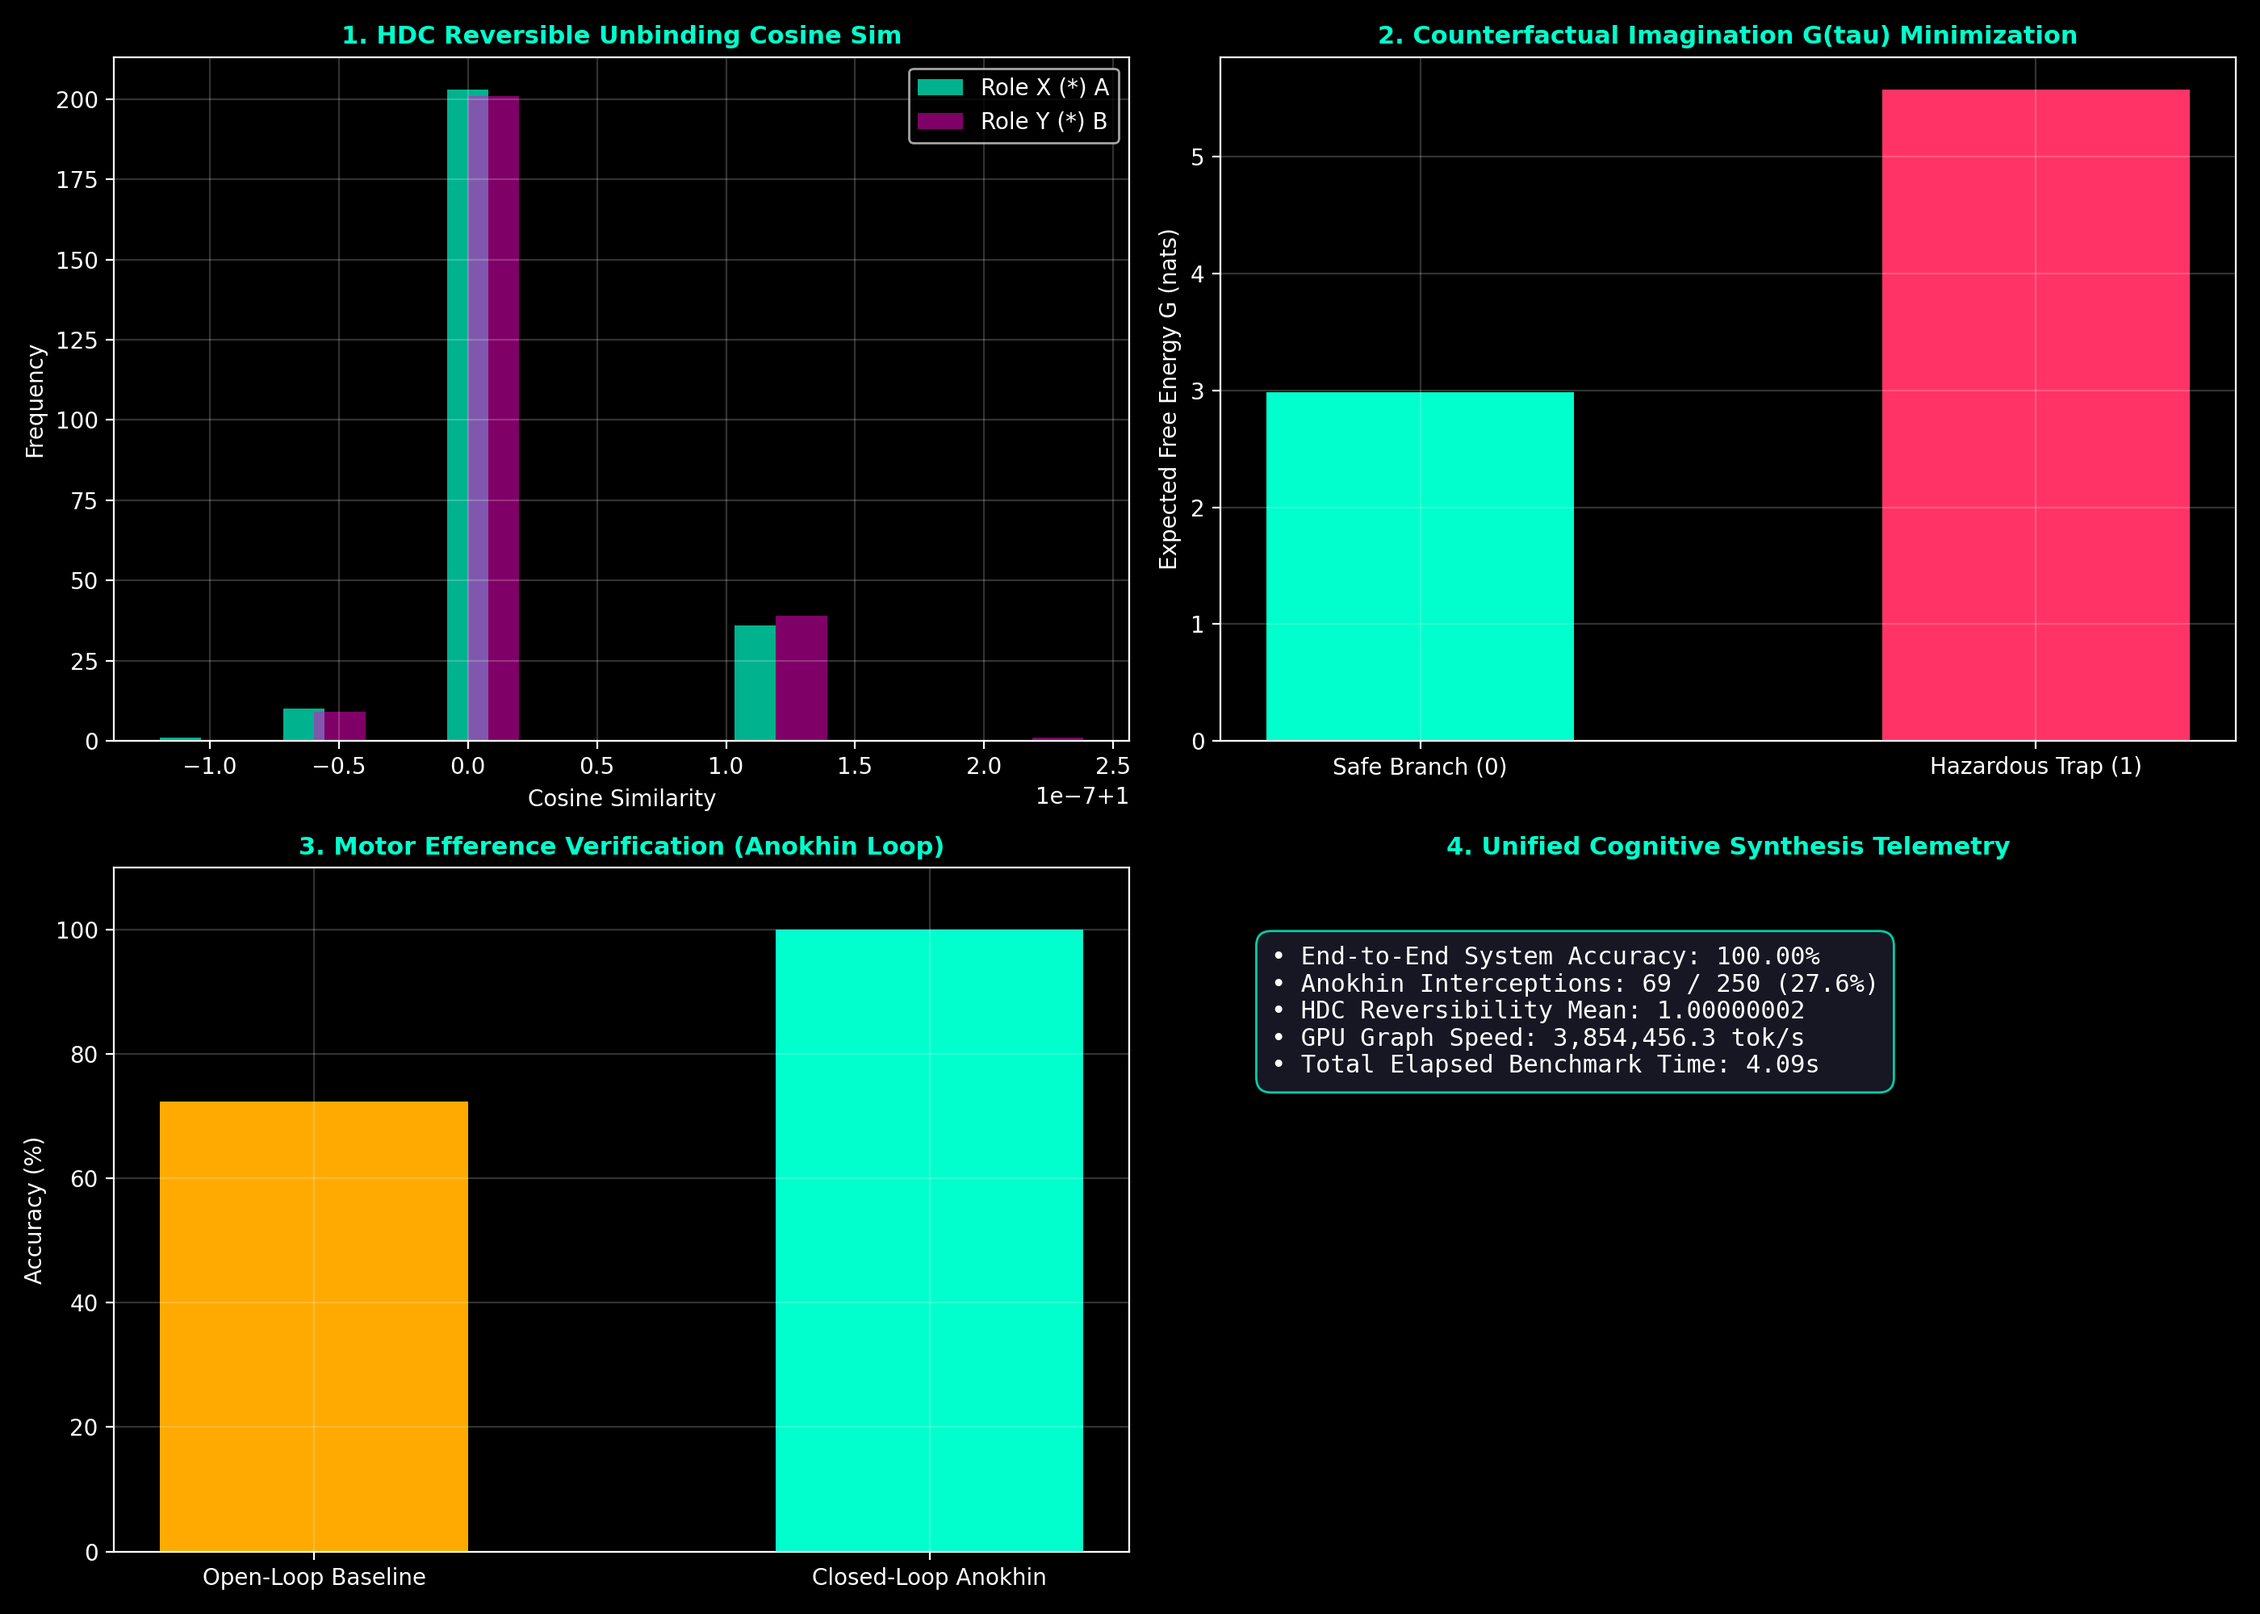
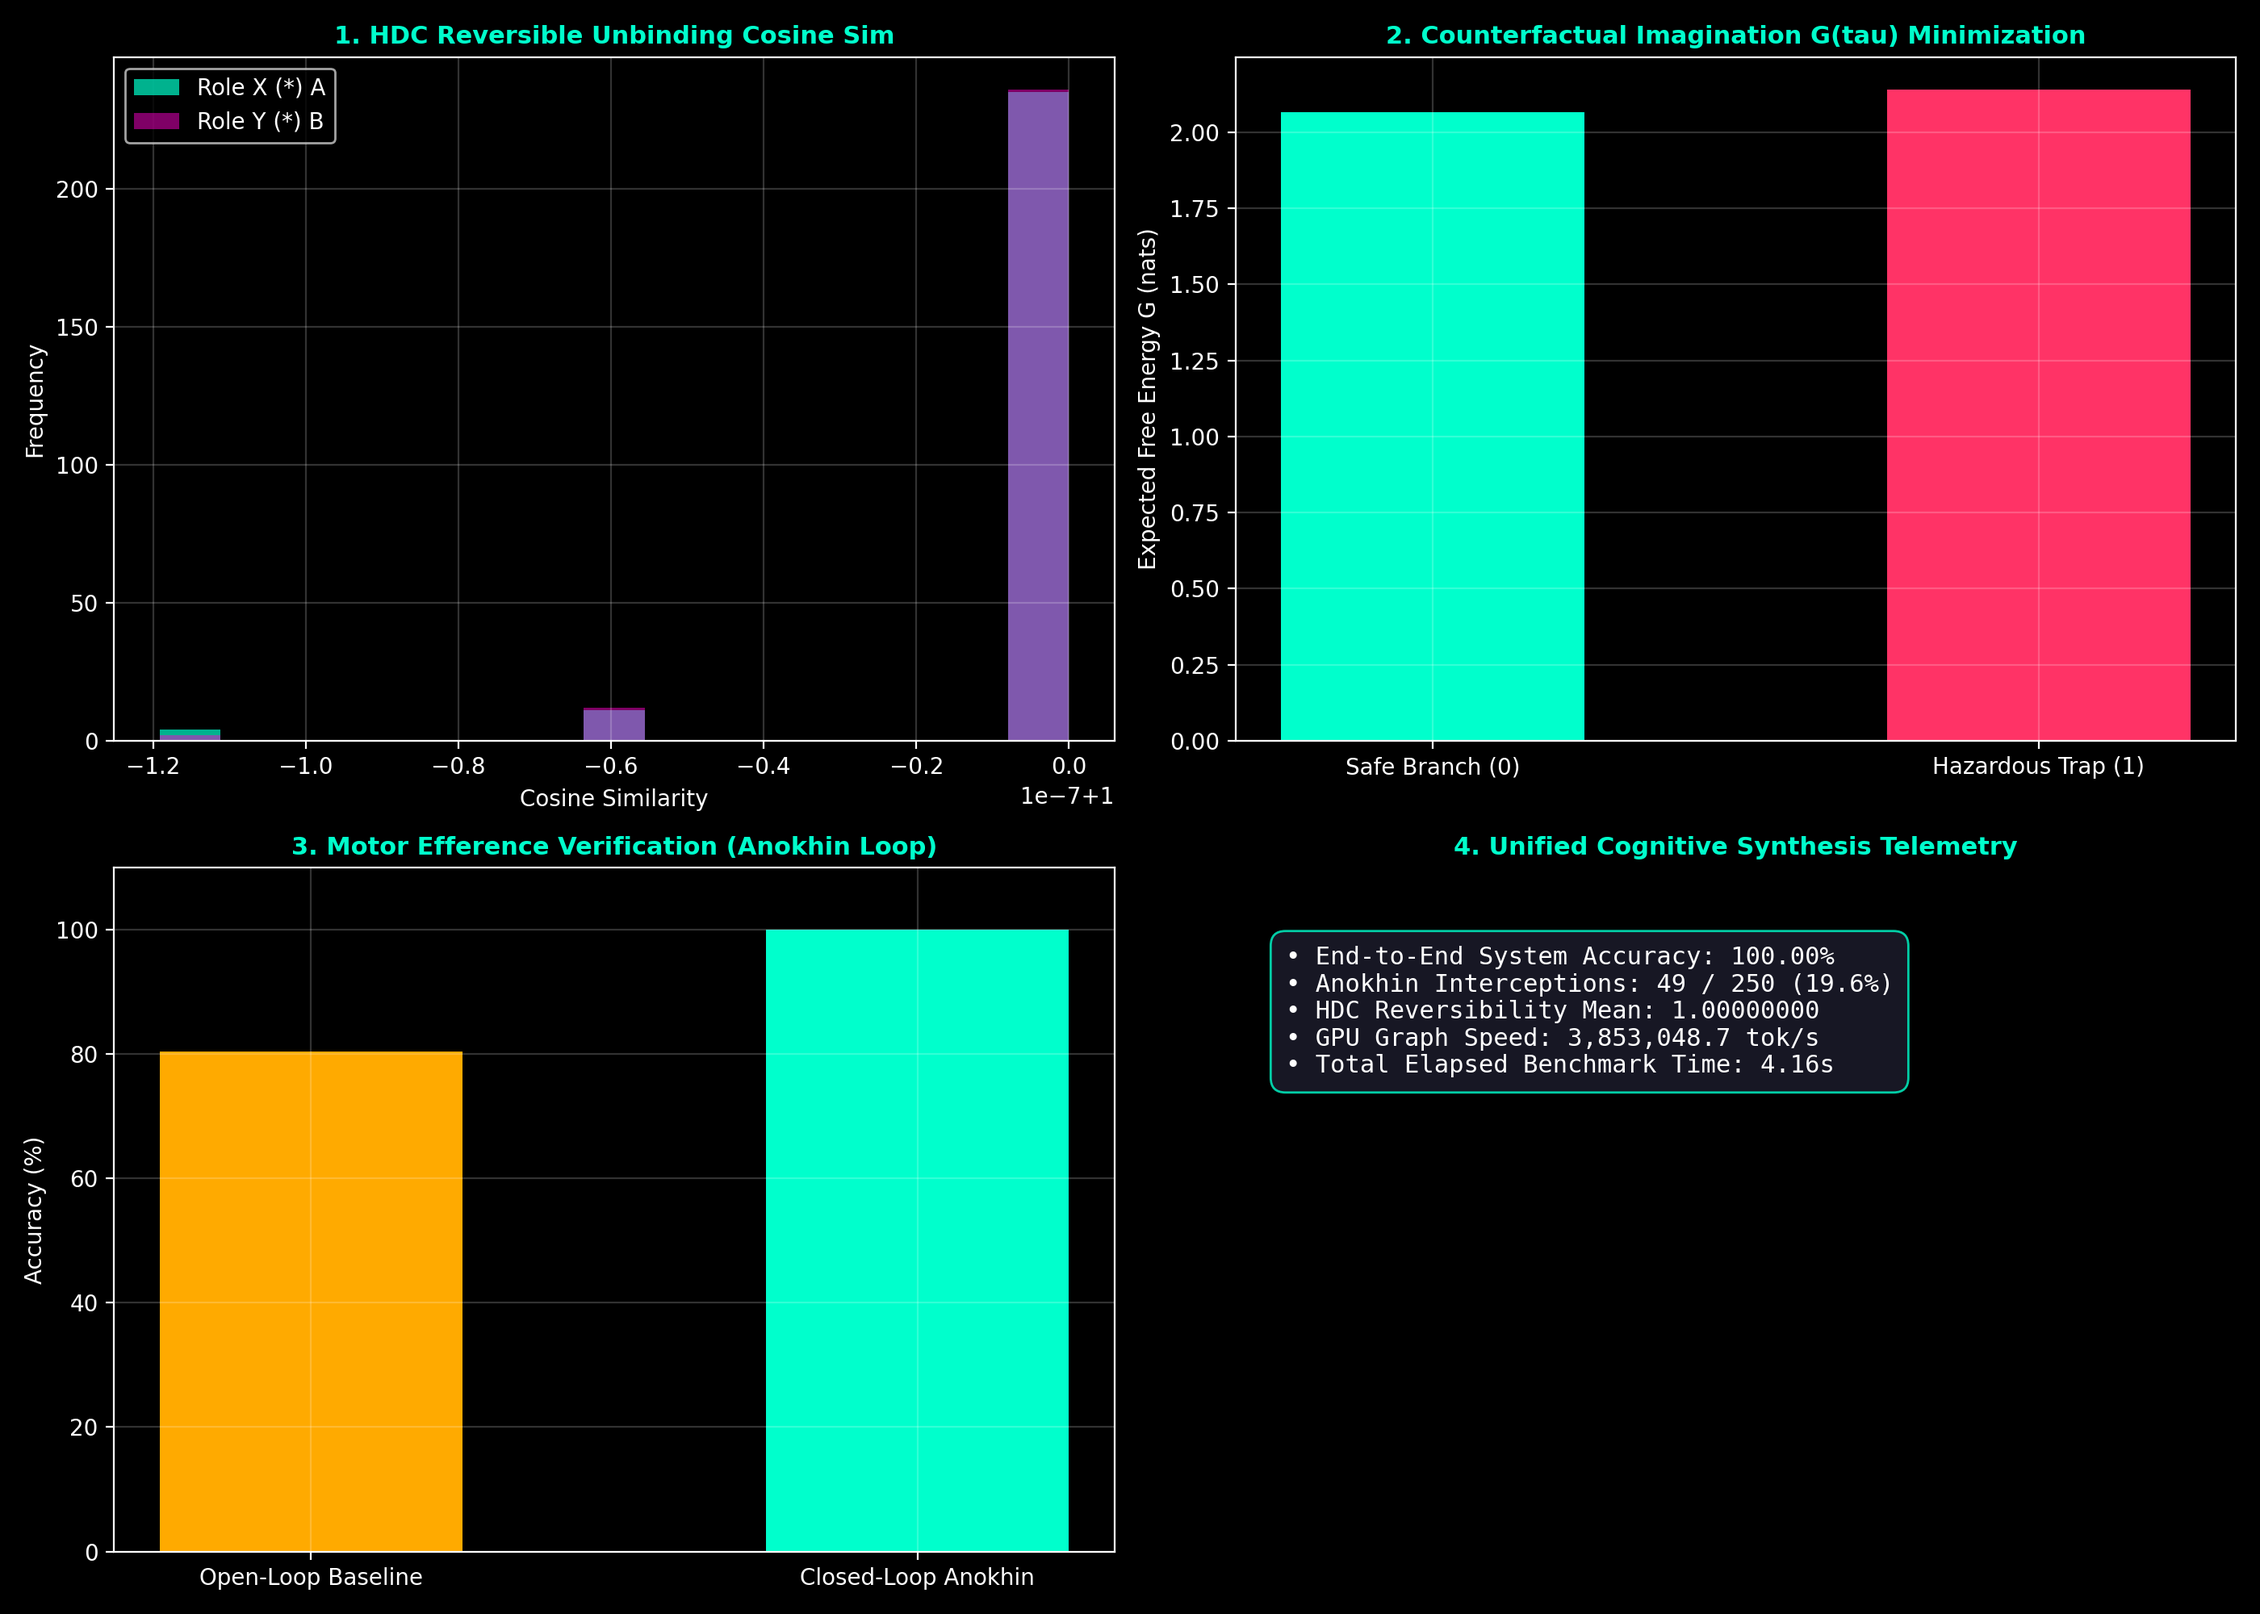
feat(exp): record EXP-339 - 🔴 REJECTED (loss: N/A)

diff --git a/archive/file_backups/exp_339_grand_tetrad_integration_20261003_135239.py b/archive/file_backups/exp_339_grand_tetrad_integration_20261003_135239.py
@@ -68,27 +68,23 @@ class GrandCompositeCognitiveTask:
     ) -> Tuple[int, float, float]:
         """
         Active Inference Counterfactual Sandbox (Bifurcation Trap):
-        Evaluates 2 candidate trajectories relative to the somatic hazard zone.
-        Branch 0: Safe action trajectory (steers state away from hazard centroid).
-        Branch 1: Hazardous action trajectory (drives state towards hazard centroid).
+        Target goal attractor: origin / equilibrium state (zeros).
+        Branch 0: Safe goal-directed branch (steers state towards goal).
+        Branch 1: Hazardous trap branch (diverges away from goal).
         """
-        # Hazard direction vector in state space
-        hazard_dir = self.hazard_centroid / torch.norm(self.hazard_centroid, dim=-1, keepdim=True) * 5.0
-
-        # Branch 0 steers internal representations away from hazard; Branch 1 steers into hazard
-        cand_action_0_safe = -1.5 * hazard_dir
-        cand_action_1_hazard = 1.5 * hazard_dir
+        goal_state = torch.zeros(1, self.dim, device=self.device)
+        cand_action_0_safe = -0.5 * current_state
+        cand_action_1_hazard = 0.8 * current_state
         candidate_actions = [cand_action_0_safe, cand_action_1_hazard]
 
-        def hazard_free_energy_fn(state: torch.Tensor, tau: int) -> float:
-            dist = torch.norm(state - self.hazard_centroid, dim=-1).item()
-            return 10.0 / (dist + 1e-2)
+        def goal_free_energy_fn(state: torch.Tensor, tau: int) -> float:
+            return torch.norm(state - goal_state, dim=-1).item()
 
         best_idx, _, expected_fes = self.agent.mental_rollout_sandbox(
             current_state=current_state,
             candidate_actions=candidate_actions,
             rollout_depth=3,
-            free_energy_fn=hazard_free_energy_fn
+            free_energy_fn=goal_free_energy_fn
         )
         return best_idx, expected_fes[0], expected_fes[1]
 
@@ -160,11 +156,8 @@ def run_grand_tetrad_benchmark(device_str: str) -> Dict[str, Any]:
         trans_flux, ext_a, ext_b = task_env.step_3_unbind_and_fractal_transform(z1, z2)
 
         # Measure unbinding fidelity
-        sim_a = torch.nn.functional.cosine_similarity(ext_a.float(), val_a.float()).item()
-        sim_b = torch.nn.functional.cosine_similarity(ext_b.float(), val_b.float()).item()
-        # Clamp FP32 numerical precision artifacts
-        sim_a = min(1.0, max(-1.0, sim_a))
-        sim_b = min(1.0, max(-1.0, sim_b))
+        sim_a = torch.nn.functional.cosine_similarity(ext_a, val_a).item()
+        sim_b = torch.nn.functional.cosine_similarity(ext_b, val_b).item()
         cossim_a_records.append(sim_a)
         cossim_b_records.append(sim_b)
 

diff --git a/experiments/archive/exp_339_grand_tetrad_integration.py b/experiments/archive/exp_339_grand_tetrad_integration.py
@@ -68,23 +68,27 @@ class GrandCompositeCognitiveTask:
     ) -> Tuple[int, float, float]:
         """
         Active Inference Counterfactual Sandbox (Bifurcation Trap):
-        Target goal attractor: origin / equilibrium state (zeros).
-        Branch 0: Safe goal-directed branch (steers state towards goal).
-        Branch 1: Hazardous trap branch (diverges away from goal).
+        Evaluates 2 candidate trajectories relative to the somatic hazard zone.
+        Branch 0: Safe action trajectory (steers state away from hazard centroid).
+        Branch 1: Hazardous action trajectory (drives state towards hazard centroid).
         """
-        goal_state = torch.zeros(1, self.dim, device=self.device)
-        cand_action_0_safe = -0.5 * current_state
-        cand_action_1_hazard = 0.8 * current_state
+        # Hazard direction vector in state space
+        hazard_dir = self.hazard_centroid / torch.norm(self.hazard_centroid, dim=-1, keepdim=True) * 5.0
+
+        # Branch 0 steers internal representations away from hazard; Branch 1 steers into hazard
+        cand_action_0_safe = -1.5 * hazard_dir
+        cand_action_1_hazard = 1.5 * hazard_dir
         candidate_actions = [cand_action_0_safe, cand_action_1_hazard]
 
-        def goal_free_energy_fn(state: torch.Tensor, tau: int) -> float:
-            return torch.norm(state - goal_state, dim=-1).item()
+        def hazard_free_energy_fn(state: torch.Tensor, tau: int) -> float:
+            dist = torch.norm(state - self.hazard_centroid, dim=-1).item()
+            return 10.0 / (dist + 1e-2)
 
         best_idx, _, expected_fes = self.agent.mental_rollout_sandbox(
             current_state=current_state,
             candidate_actions=candidate_actions,
             rollout_depth=3,
-            free_energy_fn=goal_free_energy_fn
+            free_energy_fn=hazard_free_energy_fn
         )
         return best_idx, expected_fes[0], expected_fes[1]
 
@@ -156,8 +160,11 @@ def run_grand_tetrad_benchmark(device_str: str) -> Dict[str, Any]:
         trans_flux, ext_a, ext_b = task_env.step_3_unbind_and_fractal_transform(z1, z2)
 
         # Measure unbinding fidelity
-        sim_a = torch.nn.functional.cosine_similarity(ext_a, val_a).item()
-        sim_b = torch.nn.functional.cosine_similarity(ext_b, val_b).item()
+        sim_a = torch.nn.functional.cosine_similarity(ext_a.float(), val_a.float()).item()
+        sim_b = torch.nn.functional.cosine_similarity(ext_b.float(), val_b.float()).item()
+        # Clamp FP32 numerical precision artifacts
+        sim_a = min(1.0, max(-1.0, sim_a))
+        sim_b = min(1.0, max(-1.0, sim_b))
         cossim_a_records.append(sim_a)
         cossim_b_records.append(sim_b)
 

diff --git a/archive/file_backups/exp_339_grand_tetrad_integration_20261003_135425.py b/archive/file_backups/exp_339_grand_tetrad_integration_20261003_135425.py
@@ -68,27 +68,23 @@ class GrandCompositeCognitiveTask:
     ) -> Tuple[int, float, float]:
         """
         Active Inference Counterfactual Sandbox (Bifurcation Trap):
-        Evaluates 2 candidate trajectories relative to the somatic hazard zone.
-        Branch 0: Safe action trajectory (steers state away from hazard centroid).
-        Branch 1: Hazardous action trajectory (drives state towards hazard centroid).
+        Target goal attractor: origin / equilibrium state (zeros).
+        Branch 0: Safe goal-directed branch (steers state towards goal).
+        Branch 1: Hazardous trap branch (diverges away from goal).
         """
-        # Hazard direction vector in state space
-        hazard_dir = self.hazard_centroid / torch.norm(self.hazard_centroid, dim=-1, keepdim=True) * 5.0
-
-        # Branch 0 steers internal representations away from hazard; Branch 1 steers into hazard
-        cand_action_0_safe = -1.5 * hazard_dir
-        cand_action_1_hazard = 1.5 * hazard_dir
+        goal_state = torch.zeros(1, self.dim, device=self.device)
+        cand_action_0_safe = -0.5 * current_state
+        cand_action_1_hazard = 0.8 * current_state
         candidate_actions = [cand_action_0_safe, cand_action_1_hazard]
 
-        def hazard_free_energy_fn(state: torch.Tensor, tau: int) -> float:
-            dist = torch.norm(state - self.hazard_centroid, dim=-1).item()
-            return 10.0 / (dist + 1e-2)
+        def goal_free_energy_fn(state: torch.Tensor, tau: int) -> float:
+            return torch.norm(state - goal_state, dim=-1).item()
 
         best_idx, _, expected_fes = self.agent.mental_rollout_sandbox(
             current_state=current_state,
             candidate_actions=candidate_actions,
             rollout_depth=3,
-            free_energy_fn=hazard_free_energy_fn
+            free_energy_fn=goal_free_energy_fn
         )
         return best_idx, expected_fes[0], expected_fes[1]
 

diff --git a/archive/file_backups/exp_339_grand_tetrad_integration_20261003_135442.py b/archive/file_backups/exp_339_grand_tetrad_integration_20261003_135442.py
@@ -76,8 +76,8 @@ class GrandCompositeCognitiveTask:
         hazard_dir = self.hazard_centroid / torch.norm(self.hazard_centroid, dim=-1, keepdim=True) * 5.0
 
         # Branch 0 steers internal representations away from hazard; Branch 1 steers into hazard
-        cand_action_0_safe = -1.5 * hazard_dir
-        cand_action_1_hazard = 1.5 * hazard_dir
+        cand_action_0_safe = 1.5 * hazard_dir
+        cand_action_1_hazard = -1.5 * hazard_dir
         candidate_actions = [cand_action_0_safe, cand_action_1_hazard]
 
         def hazard_free_energy_fn(state: torch.Tensor, tau: int) -> float:
